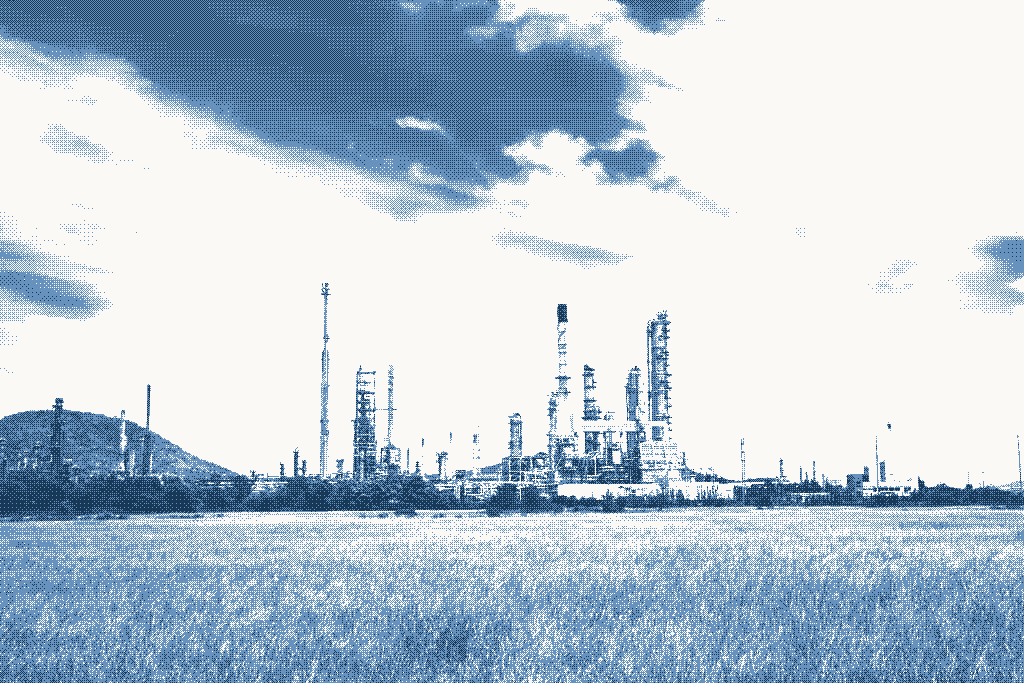
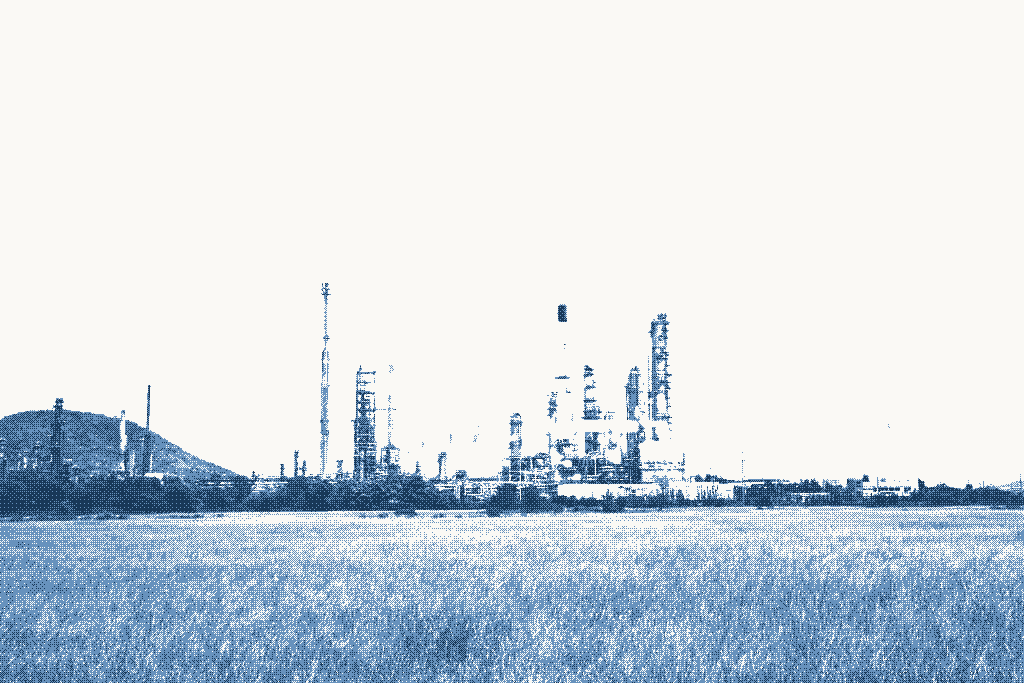
Conhecimento: céu da refinaria sem nuvens (vira creme, enquadramento mantido) e foto esfumada da direita para a esquerda, sem divisão com o diagrama

diff --git a/index.html b/index.html
@@ -209,7 +209,9 @@ body>*{position:relative;z-index:1}
 /* 22/09: «quero que os desenhos se encontrem», mas «nao e para avancar, e so para
    nao ter gap»: a grade nao tem vao, e a foto comeca exatamente onde o esquema
    acaba, sem sobrepor nem esfumar. */
-.ar-foto{position:relative;min-height:300px;overflow:hidden}
+.ar-foto{position:relative;min-height:300px;overflow:hidden;
+  /* 22/09: esfumada da direita para a esquerda, para nao haver divisao com o diagrama */
+  -webkit-mask-image:linear-gradient(to right,transparent 0,#000 45%);mask-image:linear-gradient(to right,transparent 0,#000 45%)}
 /* a foto da vaga (foto.py: trama da casa pelo motor, com rastro do mouse),
    cobrindo a vaga: so os lados sao cortados */
 .ar-foto img,.af-gl{position:absolute;inset:0;width:100%;height:100%;display:block;object-fit:cover;object-position:60% 50%}
@@ -2550,7 +2552,7 @@ body>*{position:relative;z-index:1}
 <li class="ar-item ar-item--i"><a href="estudos-pesquisa.html">Estudos e pesquisa aplicada</a><span class="ar-normas"><span>Nota técnica</span><span>Observatório setorial</span><span>EUDR</span></span></li>
 </ul>
   </div>
-  <div class="ar-foto" aria-hidden="true"><img src="img/conhecimento-foto-bayer.webp?v=1" data-lum="img/conhecimento-foto-lum.webp?v=1" alt="" width="1024" height="683" loading="lazy" decoding="async"></div>
+  <div class="ar-foto" aria-hidden="true"><img src="img/conhecimento-foto-bayer.webp?v=3" data-lum="img/conhecimento-foto-lum.webp?v=3" alt="" width="1024" height="683" loading="lazy" decoding="async"></div>
   </div>
 </section>
 

diff --git a/_ferramentas/arcos/foto.py b/_ferramentas/arcos/foto.py
@@ -13,6 +13,12 @@ TRAMA DA CASA, com GAMA 1,4 antes da curva do shader: com 1,0 o ceu e o campo
 ficam ralos; com 1,9 as nuvens escuras pesam. Com 1,4 aparecem as nuvens, as
 torres e o campo em trama media.
 
+SEM CEU (22/09): «corte as nuvens do ceu». O enquadramento fica (recortar o alto
+obrigaria o cover a AMPLIAR a foto); o que muda e o ceu, que vira creme. Ceu =
+acima de y HORIZONTE e azulado (B - R > 25) ou claro e um pouco azulado (lum > 0,72 e
+B - R > 8: a chaminé branca, neutra, fica), com a mascara
+suavizada; as torres, cinzentas e mais escuras, ficam.
+
 ENCAIXE. A pagina faz object-fit cover (vaga ~436 x 394 css numa tela de 1440;
 a foto e 1,5:1, entao so os lados sao cortados). Ancora X 0,60 (monta.py): o
 conjunto principal de torres fica no meio da vaga.
@@ -23,7 +29,7 @@ SAIDA em img/, para o motor ditherVivo, na largura do original (sem ampliar):
 
 import os, sys
 import numpy as np
-from PIL import Image
+from PIL import Image, ImageFilter
 
 AQUI = os.path.dirname(os.path.abspath(__file__))
 sys.path.insert(0, AQUI)
@@ -32,11 +38,20 @@ import manchas   # a curva de tom e a rampa
 SITE = os.path.dirname(os.path.dirname(AQUI))
 CRU = os.path.join(os.path.dirname(SITE), '_tingir-fotos', 'FOTOS', 'refinaria-campo-ceu.jpg')
 GAMA = 1.4
+HORIZONTE = 478
 
 
 def main():
-    im = Image.open(CRU).convert('L')
-    lum = (np.asarray(im, dtype=np.float64) / 255) ** GAMA
+    cor = Image.open(CRU).convert('RGB')
+    im = cor.convert('L')
+    a = np.asarray(cor).astype(np.float64)
+    lum = np.asarray(im, dtype=np.float64) / 255
+    yy0 = np.arange(im.height)[:, None]
+    ceu = ((a[..., 2] - a[..., 0] > 25) | ((lum > .72) & (a[..., 2] - a[..., 0] > 8))) & (yy0 < HORIZONTE)
+    ceu = np.asarray(Image.fromarray((ceu * 255).astype(np.uint8)).filter(ImageFilter.GaussianBlur(1.2)),
+                     dtype=np.float64) / 255
+    lum = lum ** GAMA
+    lum = lum * (1 - ceu) + ceu
     img = os.path.join(SITE, 'img')
     Image.fromarray((lum * 255).round().astype(np.uint8), 'L').save(
         os.path.join(img, 'conhecimento-foto-lum.webp'), lossless=True)

diff --git a/_ferramentas/arcos/monta.py b/_ferramentas/arcos/monta.py
@@ -44,7 +44,9 @@ CSS = r"""
 /* 22/09: «quero que os desenhos se encontrem», mas «nao e para avancar, e so para
    nao ter gap»: a grade nao tem vao, e a foto comeca exatamente onde o esquema
    acaba, sem sobrepor nem esfumar. */
-.ar-foto{position:relative;min-height:300px;overflow:hidden}
+.ar-foto{position:relative;min-height:300px;overflow:hidden;
+  /* 22/09: esfumada da direita para a esquerda, para nao haver divisao com o diagrama */
+  -webkit-mask-image:linear-gradient(to right,transparent 0,#000 45%);mask-image:linear-gradient(to right,transparent 0,#000 45%)}
 /* a foto da vaga (foto.py: trama da casa pelo motor, com rastro do mouse),
    cobrindo a vaga: so os lados sao cortados */
 .ar-foto img,.af-gl{position:absolute;inset:0;width:100%;height:100%;display:block;object-fit:cover;object-position:60% 50%}
@@ -183,8 +185,8 @@ def secao(L):
         svg(L),
         arcos.lista(),
         '  </div>',
-        '  <div class="ar-foto" aria-hidden="true"><img src="img/conhecimento-foto-bayer.webp?v=1" '
-        'data-lum="img/conhecimento-foto-lum.webp?v=1" alt="" width="1024" height="683" loading="lazy" decoding="async"></div>',
+        '  <div class="ar-foto" aria-hidden="true"><img src="img/conhecimento-foto-bayer.webp?v=3" '
+        'data-lum="img/conhecimento-foto-lum.webp?v=3" alt="" width="1024" height="683" loading="lazy" decoding="async"></div>',
         '  </div>',
         '</section>',
     ])
